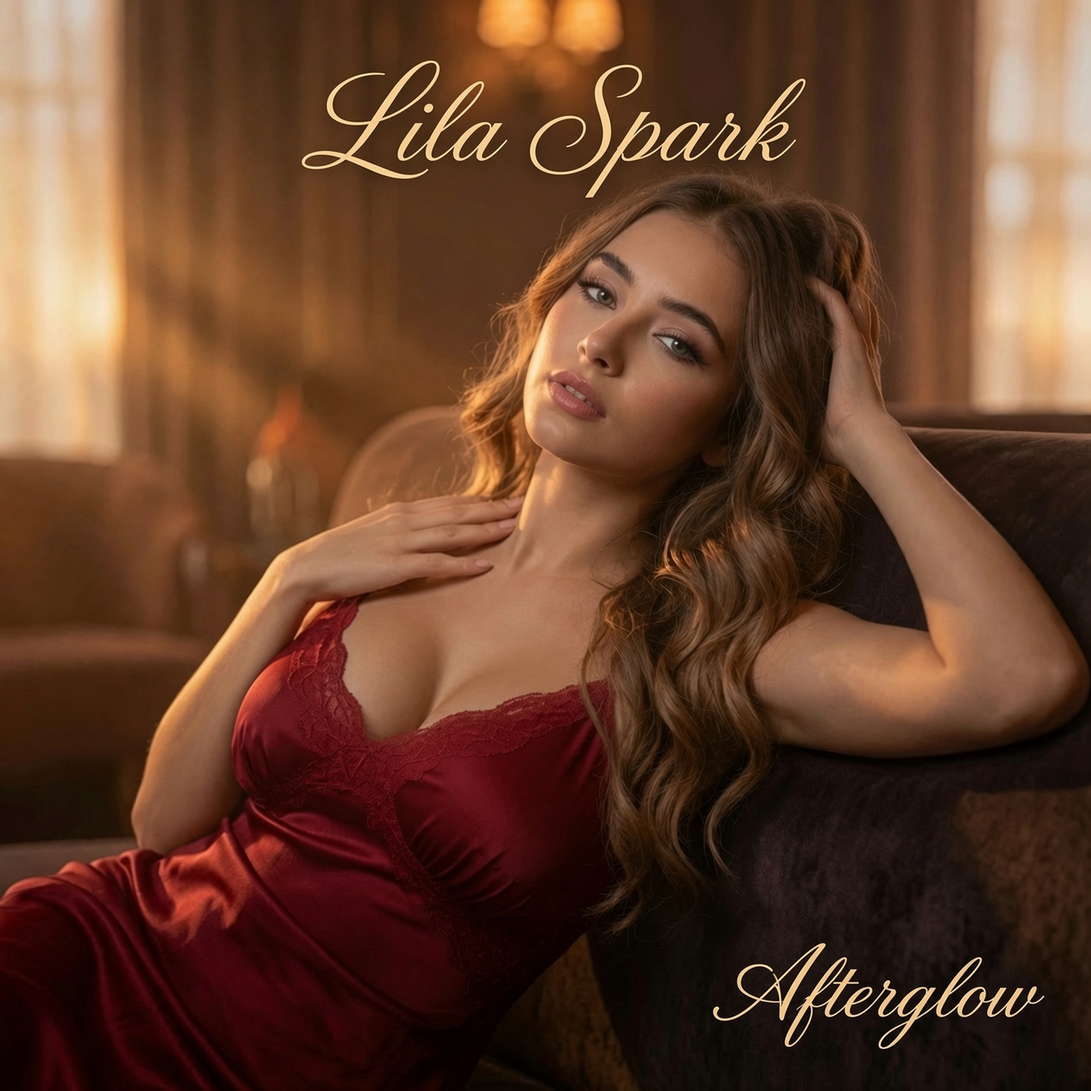
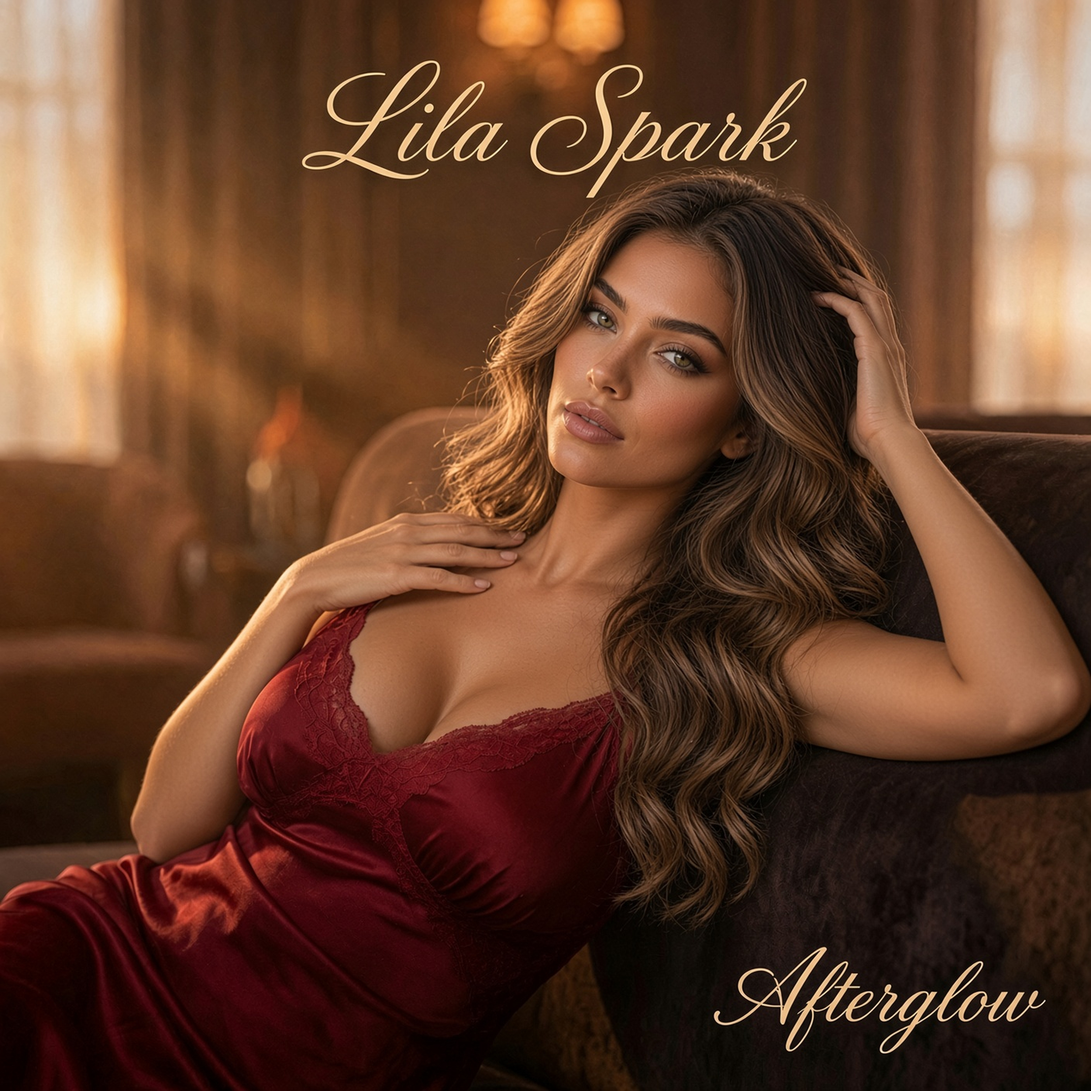
site: swap Afterglow cover to approved c2 face, retire turnaround
Alex picked afterglow-rework c2 as the new Afterglow cover and asked
to remove the Afterglow turnaround photo. Old covers and the
turnaround are kept under images/covers/old/ (not linked from pages).
Choose Me Now is unchanged.

diff --git a/tests/test_gallery.py b/tests/test_gallery.py
@@ -124,16 +124,6 @@ AGE_18_SOURCES = [
     ),
 ]
 
-AFTERGLOW_TURNAROUND = {
-    "src": "images/gallery/afterglow-turnaround.jpg",
-    "alt": "Lila Spark in red satin, front, profile, and back studio views",
-    "caption": "Looks · Afterglow turnaround",
-}
-AFTERGLOW_TURNAROUND_SRC = Path(
-    "/home/alex/iCloudSync/Music/Lila Spark - Afterglow/"
-    "grok-image-756bf8b2-dfda-4b4c-86ac-dbc485bee1b7.jpg"
-)
-
 AFTERGLOW_LOUNGE = {
     "src": "images/gallery/afterglow-lounge.jpg",
     "alt": "Lila Spark in a red sequin dress singing at a candlelit lounge microphone",
@@ -321,14 +311,13 @@ class TestPhotosManifest(unittest.TestCase):
             [
                 EXPECTED_NEW[6],  # looks-outdoor
                 EXPECTED_NEW[7],  # looks-studio
-                AFTERGLOW_TURNAROUND,
                 AFTERGLOW_STREET,
                 AFTERGLOW_TATTOO,
             ],
         )
 
         photos = flatten_photos(data)
-        self.assertEqual(len(photos), 78)
+        self.assertEqual(len(photos), 77)
         for item in photos:
             self.assertTrue((ROOT / item["src"]).is_file(), item["src"])
 
@@ -355,7 +344,6 @@ class TestPhotosManifest(unittest.TestCase):
 
     def test_afterglow_miscellany_shots_sized(self):
         for src, dest_name in (
-            (AFTERGLOW_TURNAROUND_SRC, "afterglow-turnaround.jpg"),
             (AFTERGLOW_STREET_SRC, "street.jpg"),
             (AFTERGLOW_TATTOO_SRC, "tattoo.jpg"),
         ):
